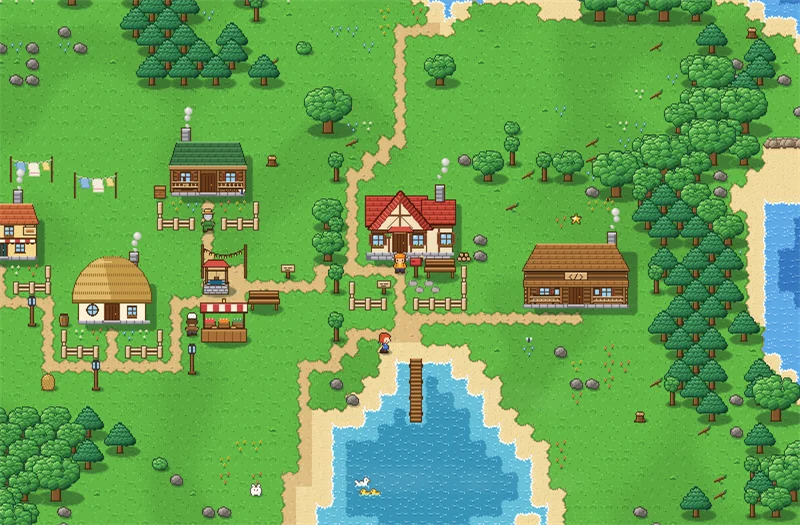
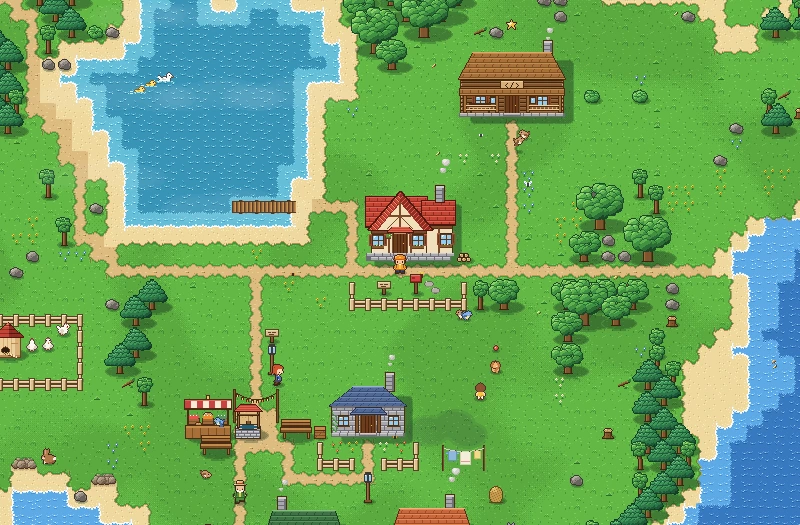
chore(island): new CV, smaller studio phones, fresh island screenshot, gentler puddles
- Replace the CV PDF and follow its wording in the Experience bullets.
- Studio shelf phones are a bit smaller (7x12), same design.
- New portfolio screenshot of the current island (seed 3068120830).
- After rain: 4 village / 2 field puddles, dry in 40 s.

diff --git a/src/games/island/core/content/portfolio.ts b/src/games/island/core/content/portfolio.ts
@@ -170,10 +170,10 @@ export const PORTFOLIO: Readonly<Record<PanelId, PortfolioPanel>> = {
         subtitle: 'PT Tokoplas Ecommerce Indonesia',
         period: 'Dec 2022 – Present',
         bullets: [
-          'Designed and developed Poly, an LLM-based assistant within the Tokoplas app that handles FAQs, order tracking, reward enquiries, product recommendations, market summaries and quotation requests.',
-          'Develop and maintain the Tokoplas e-commerce app for resin products, including the payment flow and customer loyalty programme (Android, iOS).',
-          'Developed two internal apps: a Seller app for inventory management and customer purchase history, and a Driver app for delivery assignments, procedural guidance and order-tracking updates.',
-          'Work closely with product, backend and design teams from feature planning through to release.',
+          'Designed and built Poly, an LLM-powered customer assistant in the Tokoplas app that answers FAQs, tracks orders, handles reward enquiries, recommends products, summarises market prices and takes quotation requests.',
+          'Develop and maintain the Tokoplas e-commerce app for resin products in Flutter, covering the checkout and payment flow and the customer loyalty programme (Android, iOS).',
+          'Built two internal Flutter apps: a Seller app for inventory management and customer purchase history, and a Driver app for delivery assignments, step-by-step delivery procedures and order status updates.',
+          'Integrate RESTful APIs with the backend team and take features from planning and design through to release on both app stores.',
         ],
       },
       {
@@ -181,8 +181,8 @@ export const PORTFOLIO: Readonly<Record<PanelId, PortfolioPanel>> = {
         subtitle: 'PT Pinjaman Kemakmuran Rakyat',
         period: 'May 2022 – Dec 2022',
         bullets: [
-          'Developed klikUMKM, a peer-to-peer lending app giving small and medium enterprises mobile access to financing.',
-          'Contributed to the development of the SCBD mobile app as part of the engineering team.',
+          'Developed klikUMKM, a peer-to-peer (P2P) lending app that gives small and medium enterprises (SMEs) access to financing from their phones.',
+          'Contributed to feature development of the SCBD mobile app as part of the engineering team.',
         ],
       },
     ],

diff --git a/src/games/island/assets/paintStudioFurniture.ts b/src/games/island/assets/paintStudioFurniture.ts
@@ -45,9 +45,9 @@ function deskLaptop(): PixelCanvas {
   return c;
 }
 
-const PHONE = { width: 8, height: 14 } as const;
+const PHONE = { width: 7, height: 12 } as const;
 /** The screen inside a phone, relative to its top-left. */
-const SCREEN = { x: 1, y: 2, width: 6, height: 10 } as const;
+const SCREEN = { x: 1, y: 2, width: 5, height: 8 } as const;
 /** Where the shelf's top is, and how far apart the phones stand (one per tile). */
 const SHELF_TOP = 25;
 const PHONE_SLOT = 16;
@@ -70,8 +70,8 @@ function appScreen(c: PixelCanvas, x: number, y: number, brand: Rgba): void {
 function islandScreen(c: PixelCanvas, x: number, y: number): void {
   const { width, height } = SCREEN;
   fillRect(c, x, y, width, height, PALETTE.shallowSea.base);
-  fillRect(c, x + 1, y + 2, width - 2, 6, PALETTE.sand.base);
-  fillRect(c, x + 2, y + 3, width - 4, 4, PALETTE.grass.base);
+  fillRect(c, x + 1, y + 2, width - 2, height - 4, PALETTE.sand.base);
+  fillRect(c, x + 1, y + 3, width - 2, height - 6, PALETTE.grass.base);
   setPixel(c, x + 2, y + 4, PALETTE.roof.base);
   setPixel(c, x + 3, y + 5, PALETTE.oak.dark);
   setPixel(c, x, y, PALETTE.foam.bright);
@@ -90,7 +90,7 @@ function phone(
   fillRect(c, x + 1, y + 1, width - 2, height - 2, PALETTE.screen.body);
   paint(x + SCREEN.x, y + SCREEN.y);
   setPixel(c, x + Math.floor(width / 2), y + 1, PALETTE.screen.dark); // camera dot
-  fillRect(c, x + 3, y + height - 2, 2, 1, PALETTE.screen.base); // home bar
+  fillRect(c, x + Math.floor(width / 2) - 1, y + height - 2, 2, 1, PALETTE.screen.base); // home bar
 }
 
 /** 96×32 over 6×1 (wall): six phones on a display shelf, one per project (each opens it). */

diff --git a/src/games/island/core/config.ts b/src/games/island/core/config.ts
@@ -928,9 +928,9 @@ export const ISLAND_CONFIG: IslandConfig = {
     shootingStarSeconds: 1.2,
   },
   afterRain: {
-    villagePuddles: 7,
-    fieldPuddles: 3,
-    drySeconds: 80,
+    villagePuddles: 4,
+    fieldPuddles: 2,
+    drySeconds: 40,
   },
   breeze: { swayPx: 3, base: 0.7, rainBoost: 0.5, nightCalm: 0.5, leaves: 10, leafSpeedPx: 20 },
   clouds: { count: 5, speedPx: 4 },

diff --git a/docs/PROGRESS.md b/docs/PROGRESS.md
@@ -89,6 +89,18 @@
 
 ## Session log
 
+### 2026-11-28 — New CV, smaller phones, fresh screenshot (user request)
+
+- The CV PDF (`public/portfolio/charles-jonathan-cv.pdf`) is replaced with the new one, and the
+  Experience bullets in `portfolio.ts` follow its wording (Poly, Flutter apps, RESTful APIs,
+  klikUMKM, SCBD).
+- The phones on the studio's top shelf are a bit smaller (7×12 instead of the larger frame),
+  same design: dark body, island screen, home bar.
+- New `public/portfolio/island.webp` (800×525) from the current island (seed 3068120830:
+  the coop, the dock, the cottage, the studio).
+- Puddles after rain use the user's values: `afterRain` 4 village / 2 field puddles, dry in 40 s.
+- **Verified:** typecheck, lint, tests, build; the shelf sprite preview and the screenshot checked.
+
 ### 2026-11-28 — Follow your finger on phones (user request)
 
 - The fixed slide-stick is gone (feedback: a fixed spot is awkward). Now there are two kinds of
